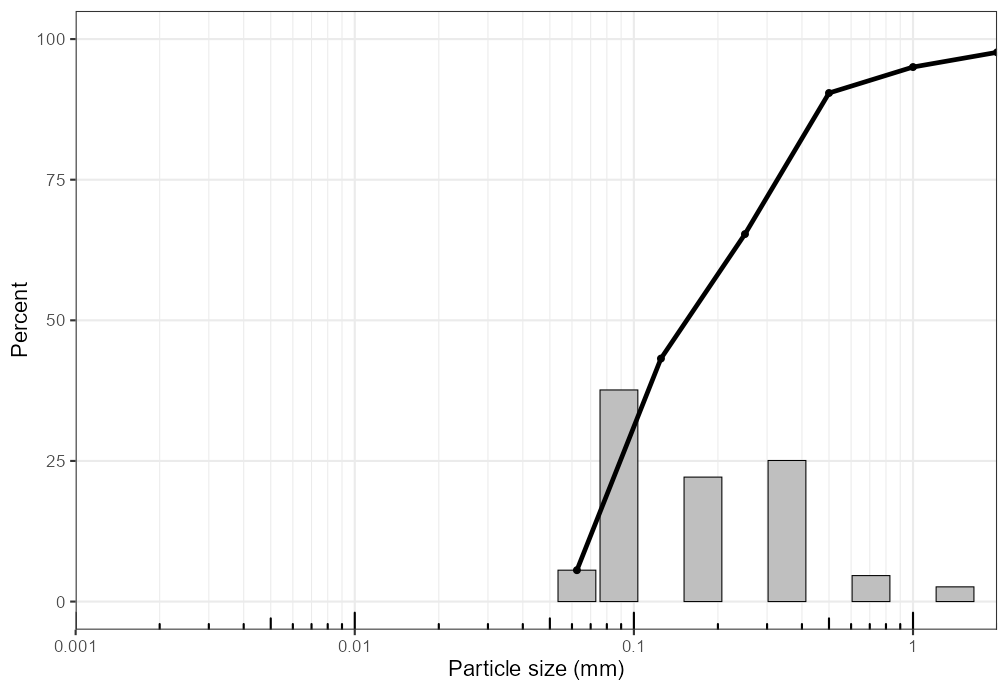
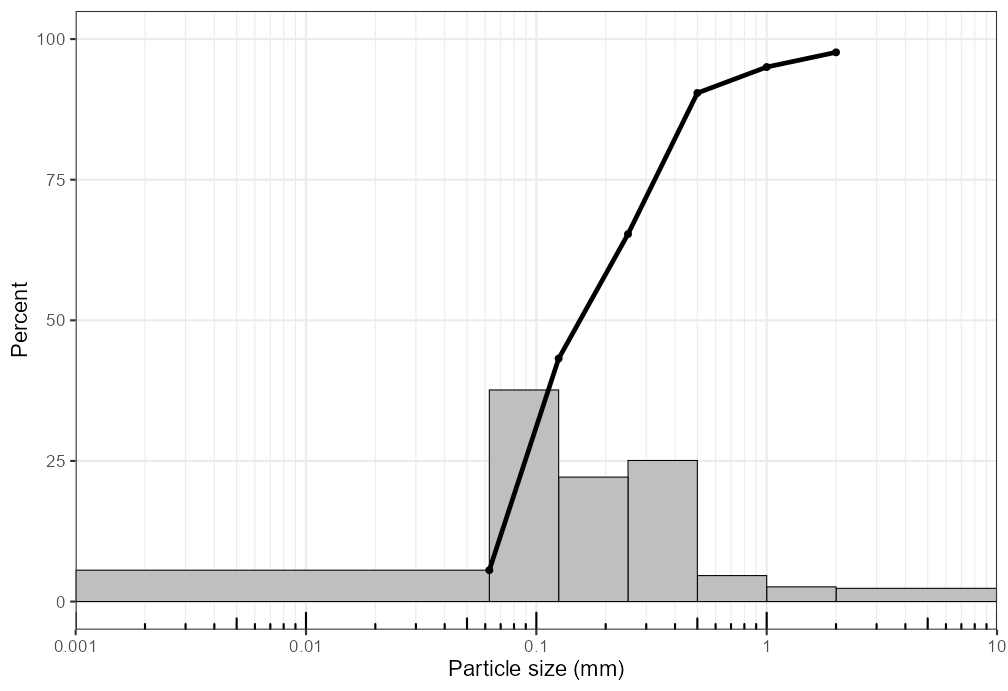
Fix GRADISTAT ternary geometry and log histogram bins

diff --git a/README.md b/README.md
@@ -480,10 +480,10 @@ plot_fractions(gs, scheme = "wentworth_major")
 
 Metric distribution and cumulative plots use particle size in
 millimetres on a log-scaled x-axis by default, with major breaks at
-0.001, 0.01, 0.1, and 1 mm. Use `particle_unit = "um"` to show the same
-axis in micrometres. They plot one sample at a time; use `sample_id` or
-filter the input first, then loop over samples or combine plots
-externally with a plotting-arrangement package if needed.
+0.001, 0.01, 0.1, 1, and 10 mm. Use `particle_unit = "um"` to show the
+same axis in micrometres. They plot one sample at a time; use
+`sample_id` or filter the input first, then loop over samples or combine
+plots externally with a plotting-arrangement package if needed.
 
 ### GRADISTAT-Inspired Summary Plot
 

diff --git a/NEWS.md b/NEWS.md
@@ -2,6 +2,9 @@
 
 ## Development version
 
+- Corrected GRADISTAT gravel-sand-mud ternary plot geometry for the central
+  sand/mud boundary and slightly gravelly band, and drew log-scaled
+  distribution bars from true size-class boundaries.
 - Polished ternary diagram guide placement and boundary styling, and restored
   single-sample log-scaled grain-size distribution and cumulative plots using
   millimetre particle-size axes.